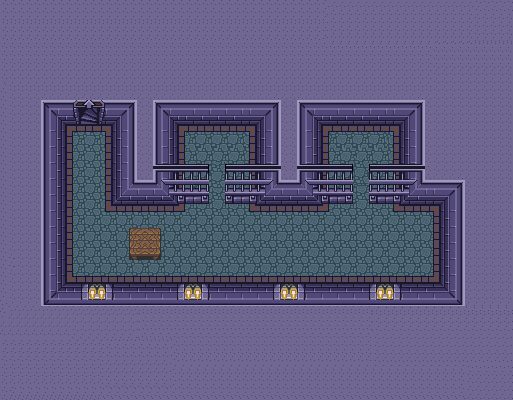
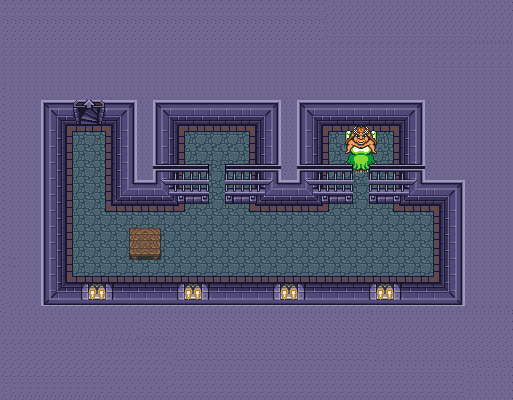
bosses

Changed region(s): [[0.655, 0.3, 0.7485, 0.45]]

diff --git a/zelda/enemy/armos/ArmosKnight.java b/zelda/enemy/armos/ArmosKnight.java
@@ -1,0 +1,109 @@
+/*
+ * To change this template, choose Tools | Templates
+ * and open the template in the editor.
+ */
+package zelda.enemy.armos;
+
+import java.awt.Rectangle;
+import zelda.collision.Hittable;
+import zelda.collision.Weapon;
+import zelda.enemy.AttackBehavior;
+import zelda.enemy.Behavior;
+import zelda.engine.Game;
+import zelda.karacter.Direction;
+import zelda.karacter.Karacter;
+
+/**
+ *
+ * @author Christiaan
+ */
+public class ArmosKnight extends Karacter implements Hittable {
+
+    protected Behavior behavior;
+    protected long inputInterval = 50;
+    protected long lastInput = System.currentTimeMillis();
+    protected long lastHit = System.currentTimeMillis();
+
+    public ArmosKnight(Game game, int x, int y, Direction direction) {
+        super(game, x, y, 32, 52, direction, "images/armos.png");
+
+        spriteLoc.put("1", new Rectangle(0, 0, 32, 52));
+        spriteLoc.put("2", new Rectangle(32, 0, 32, 52));
+        spriteLoc.put("3", new Rectangle(64, 0, 32, 52));
+        spriteLoc.put("4", new Rectangle(96, 0, 32, 52));
+        spriteLoc.put("5", new Rectangle(128, 0, 32, 52));
+        spriteLoc.put("6", new Rectangle(160, 0, 32, 52));
+        spriteLoc.put("7", new Rectangle(192, 0, 32, 52));
+        spriteLoc.put("8", new Rectangle(224, 0, 32, 52));
+        spriteLoc.put("9", new Rectangle(256, 0, 32, 52));
+        spriteLoc.put("10", new Rectangle(288, 0, 32, 52));
+
+        sprite.setSprite(spriteLoc.get("1"));
+
+
+        health = 35;
+
+        state = new AttackState(this);
+
+        behavior = new AttackBehavior(this);
+    }
+
+    public void hitBy(Weapon weapon) {
+        if (health >= 1) {
+            game.playFx("sounds/enemyHit.mp3");
+        }
+
+        switch (weapon) {
+            case SWORD:
+                if (health > 0 && System.currentTimeMillis() > lastHit + 800) {
+                    lastHit = System.currentTimeMillis();
+                    health -= 3;
+                    setState(new TransState(this, game.getLink().getDirection()));
+                }
+                break;
+
+            case BOMB:
+                if (health > 0 && System.currentTimeMillis() > lastHit + 800) {
+                    lastHit = System.currentTimeMillis();
+                    health -= 10;
+                    setState(new TransState(this, game.getLink().getDirection()));
+                }
+                break;
+
+            case ARROW:
+                if (health > 0 && System.currentTimeMillis() > lastHit + 800) {
+                    lastHit = System.currentTimeMillis();
+                    health -= 1;
+                }
+                break;
+        }
+
+        if (health <= 0) {
+            alive = false;
+            game.playFx("sounds/enemyDie.mp3");
+            randomGoodie();
+        }
+    }
+
+    @Override
+    public void preAnimation() {
+        state.handleAnimation();
+    }
+
+    @Override
+    public void doInLoop() {
+        if (System.currentTimeMillis() > lastInput + inputInterval) {
+            state.handleInput();
+            behavior.behave();
+            lastInput = System.currentTimeMillis();
+        }
+    }
+
+    public Behavior getBehavior() {
+        return behavior;
+    }
+
+    public void setBehavior(Behavior behavior) {
+        this.behavior = behavior;
+    }
+}

diff --git a/zelda/enemy/armos/TransState.java b/zelda/enemy/armos/TransState.java
@@ -1,0 +1,80 @@
+package zelda.enemy.armos;
+
+import zelda.karacter.Direction;
+import zelda.karacter.Karacter;
+import zelda.karacter.KaracterState;
+
+/**
+ *
+ * @author vincentklarholz
+ */
+public class TransState extends KaracterState
+{
+     private final String[] animation = {"1", "2", "3", "4", "5", "6", "7", "8", "9", "10"};
+
+    private Direction direction;
+
+    public TransState(Karacter armosKnight, Direction direction)
+    {
+        super(armosKnight);
+		name = "TransState";
+        karacter.setAnimationInterval(10);
+
+        this.direction = direction;
+    }
+
+    public void left()
+	{
+        karacter.setAnimation(animation);
+		karacter.setX(karacter.getX() + 4);
+	}
+
+	public void right()
+	{
+        karacter.setAnimation(animation);
+		karacter.setX(karacter.getX() - 4);
+	}
+
+	public void up()
+	{
+        karacter.setAnimation(animation);
+        karacter.setY(karacter.getY() + 4);
+	}
+
+	public void down()
+	{
+        karacter.setAnimation(animation);
+		karacter.setY(karacter.getY() - 4);
+	}
+
+    @Override
+	public void handleAnimation()
+	{
+		int animationCounter = karacter.getAnimationCounter();
+
+        if (animationCounter == karacter.getAnimation().length)
+		{
+            karacter.setAnimationInterval(90);
+            karacter.setState(new AttackState(karacter));
+        }
+
+        switch (direction)
+        {
+            case UP:
+                down();
+                break;
+
+            case DOWN:
+                up();
+                break;
+
+            case LEFT:
+                right();
+                break;
+
+            case RIGHT:
+                left();
+                break;
+        }
+    }
+}

diff --git a/zelda/enemy/BossSoldier.java b/zelda/enemy/BossSoldier.java
@@ -10,11 +10,12 @@ import zelda.karacter.Direction;
  *
  * @author maartenhus
  */
-public class WhiteSoldier extends Soldier implements Hittable {
+public class BossSoldier extends Soldier implements Hittable {
 
-    public WhiteSoldier(Game game, int x, int y, Direction direction) {
-        super(game, x, y, direction, "images/white-soldier.png");
-        behavior = new RandomBehavior(this);
+    public BossSoldier(Game game, int x, int y, Direction direction) {
+        super(game, x, y, direction, "images/boss.png");
+        behavior = new AttackBehavior(this);
+        health = 30;
     }
 
     public void hitBy(Weapon weapon) {
@@ -28,19 +29,21 @@ public class WhiteSoldier extends Soldier implements Hittable {
                     lastHit = System.currentTimeMillis();
                     health -= 3;
                     setState(new TransState(this, game.getLink().getDirection()));
-                    setBehavior(new AttackBehavior(this));
                 }
                 break;
 
             case BOMB:
-                health = 0;
+                if (health > 0 && System.currentTimeMillis() > lastHit + 800) {
+                    lastHit = System.currentTimeMillis();
+                    health -= 10;
+                    setState(new TransState(this, game.getLink().getDirection()));
+                }
                 break;
 
             case ARROW:
                 if (health > 0 && System.currentTimeMillis() > lastHit + 800) {
                     lastHit = System.currentTimeMillis();
                     health -= 2;
-                    setBehavior(new AttackBehavior(this));
                 }
                 break;
         }

diff --git a/zelda/enemy/armos/AttackState.java b/zelda/enemy/armos/AttackState.java
@@ -1,0 +1,64 @@
+/*
+ * To change this template, choose Tools | Templates
+ * and open the template in the editor.
+ */
+package zelda.enemy.armos;
+
+import zelda.karacter.Karacter;
+import zelda.karacter.KaracterState;
+
+/**
+ *
+ * @author Christiaan
+ */
+public class AttackState extends KaracterState
+{
+
+    private final String[] animation = {"1", "2", "3", "4", "5", "6", "7", "8", "9", "10"};
+    private static final int WALK_SPEED = 5;
+    private int oldX, oldY;
+    private long oldAnimationInterval;
+
+    public AttackState(Karacter armosKnight)
+    {
+        super(armosKnight);
+        name = "AttackState";
+
+        armosKnight.setAnimationInterval(90);
+
+        oldAnimationInterval = armosKnight.getAnimationInterval();
+
+        oldX = armosKnight.getX();
+        oldY = armosKnight.getY();
+    }
+
+    public void handleInput()
+    {
+        switch (karacter.getDirection())
+        {
+            case UP:
+                animation();
+                break;
+
+            case DOWN:
+                animation();
+                break;
+
+            case LEFT:
+                animation();
+                break;
+
+            case RIGHT:
+                animation();
+                break;
+        }
+    }
+
+    public void animation()
+    {
+        
+        karacter.setAnimation(animation);
+
+
+    }
+}

diff --git a/zelda/link/Link.java b/zelda/link/Link.java
@@ -2,6 +2,7 @@ package zelda.link;
 
 import java.awt.Rectangle;
 import zelda.enemy.Soldier;
+import zelda.enemy.armos.ArmosKnight;
 import zelda.engine.GObject;
 import zelda.engine.Game;
 import zelda.items.Bomb;
@@ -195,8 +196,22 @@ public class Link extends Karacter
                Soldier soldier = (Soldier)hitObject;
                setState(new TransState(this, soldier.getDirection()));
             }
-		}
+        }
+        
+        if (hitObject instanceof ArmosKnight)
+        {
+            if (health > 0 && System.currentTimeMillis() > lastHit + 800)
+            {
+               game.playFx("sounds/linkHurt.mp3");
+               health --;
+               lastHit = System.currentTimeMillis();
 
+               //System.out.println("leven: " + health);
+               ArmosKnight armosKnight = (ArmosKnight)hitObject;
+               setState(new TransState(this, armosKnight.getDirection()));
+            }
+		}
+        
         if (hitObject instanceof Heart)
         {
             if (health < 5)

diff --git a/zelda/scene/ForrestScene.java b/zelda/scene/ForrestScene.java
@@ -2,7 +2,9 @@ package zelda.scene;
 
 import java.awt.Polygon;
 import java.awt.Rectangle;
+import zelda.enemy.armos.ArmosKnight;
 import zelda.enemy.BlueSoldier;
+import zelda.enemy.BossSoldier;
 import zelda.enemy.WhiteSoldier;
 import zelda.engine.Game;
 import zelda.karacter.Direction;
@@ -116,8 +118,8 @@ public class ForrestScene extends ZeldaScene
         gameObjects.add(game.getLink());
 
         // add WhiteSoldiers
-        //gameObjects.add(new BlueSoldier(game, 70, 223, Direction.UP, 20));
-        //gameObjects.add(new BlueSoldier(game, 116, 340, Direction.DOWN, 20));
+        gameObjects.add(new BossSoldier(game, 70, 223, Direction.UP));
+        gameObjects.add(new ArmosKnight(game, 116, 340, Direction.DOWN));
         //gameObjects.add(new WhiteSoldier(game, 256, 118, Direction.LEFT, 20));
         //gameObjects.add(new WhiteSoldier(game, 375, 358, Direction.DOWN, 20));
 

diff --git a/zelda/enemy/BlueSoldier.java b/zelda/enemy/BlueSoldier.java
@@ -42,8 +42,11 @@ public class BlueSoldier extends Soldier implements Hittable
                 break;
 
             case ARROW:
-                health -= 1;
-                setBehavior(new AttackBehavior(this));
+                if (health > 0 && System.currentTimeMillis() > lastHit + 800) {
+                    lastHit = System.currentTimeMillis();
+                    health -= 1;
+                    setBehavior(new AttackBehavior(this));
+                }
                 break;
 		}
         

diff --git a/zelda/scene/HouseScene.java b/zelda/scene/HouseScene.java
@@ -99,6 +99,7 @@ public class HouseScene extends ZeldaScene
         
         gameObjects.add(new BlueSoldier(game, 300, 90, Direction.LEFT, 20));
         gameObjects.add(new BlueSoldier(game, 325, 300, Direction.DOWN, 40));
+        
 
         gameObjects.add(new Guard(game, 483, 408, Direction.RIGHT));
         gameObjects.add(new Guard(game, 483, 376, Direction.RIGHT));
